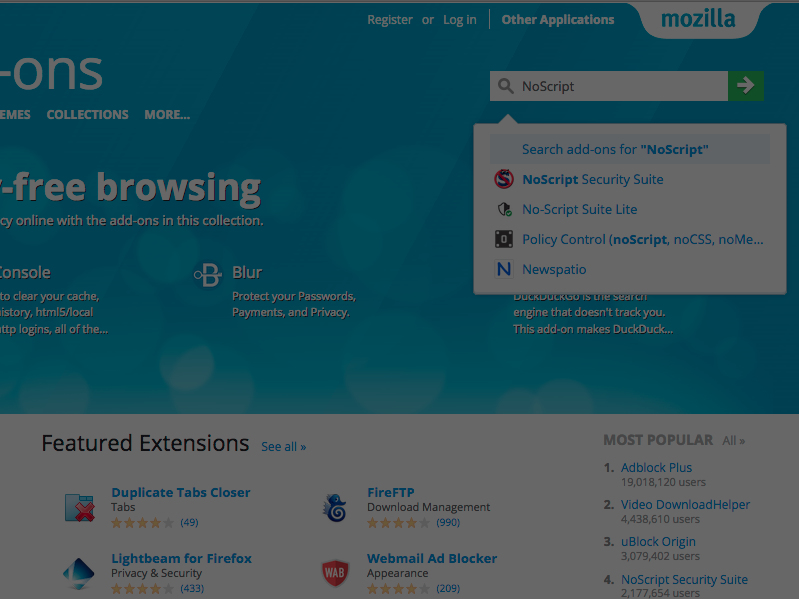
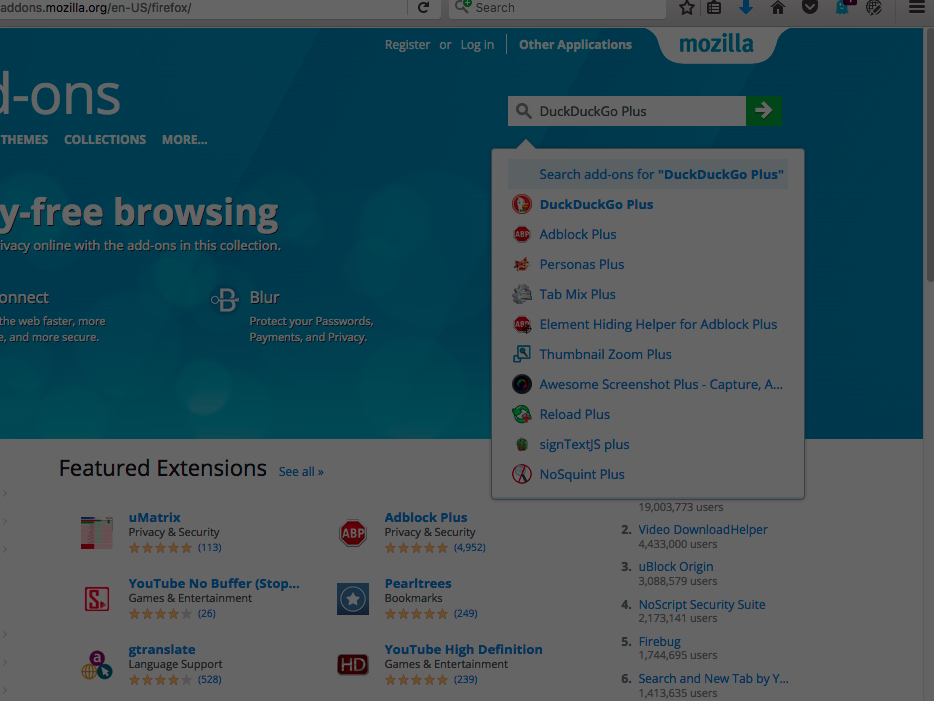
Change from NoScript to DuckDuckGo

diff --git a/170204_fosdem/index.html b/170204_fosdem/index.html
@@ -77,7 +77,7 @@ def test_search():
     selenium.get('https://addons.mozilla.org')
 
     searchbox = selenium.find_element_by_id('search-q')
-    searchbox.send_keys('NoScript')
+    searchbox.send_keys('DuckDuckGo Plus')
     button = selenium.find_element_by_class_name('search-button')
     button.click()
 
